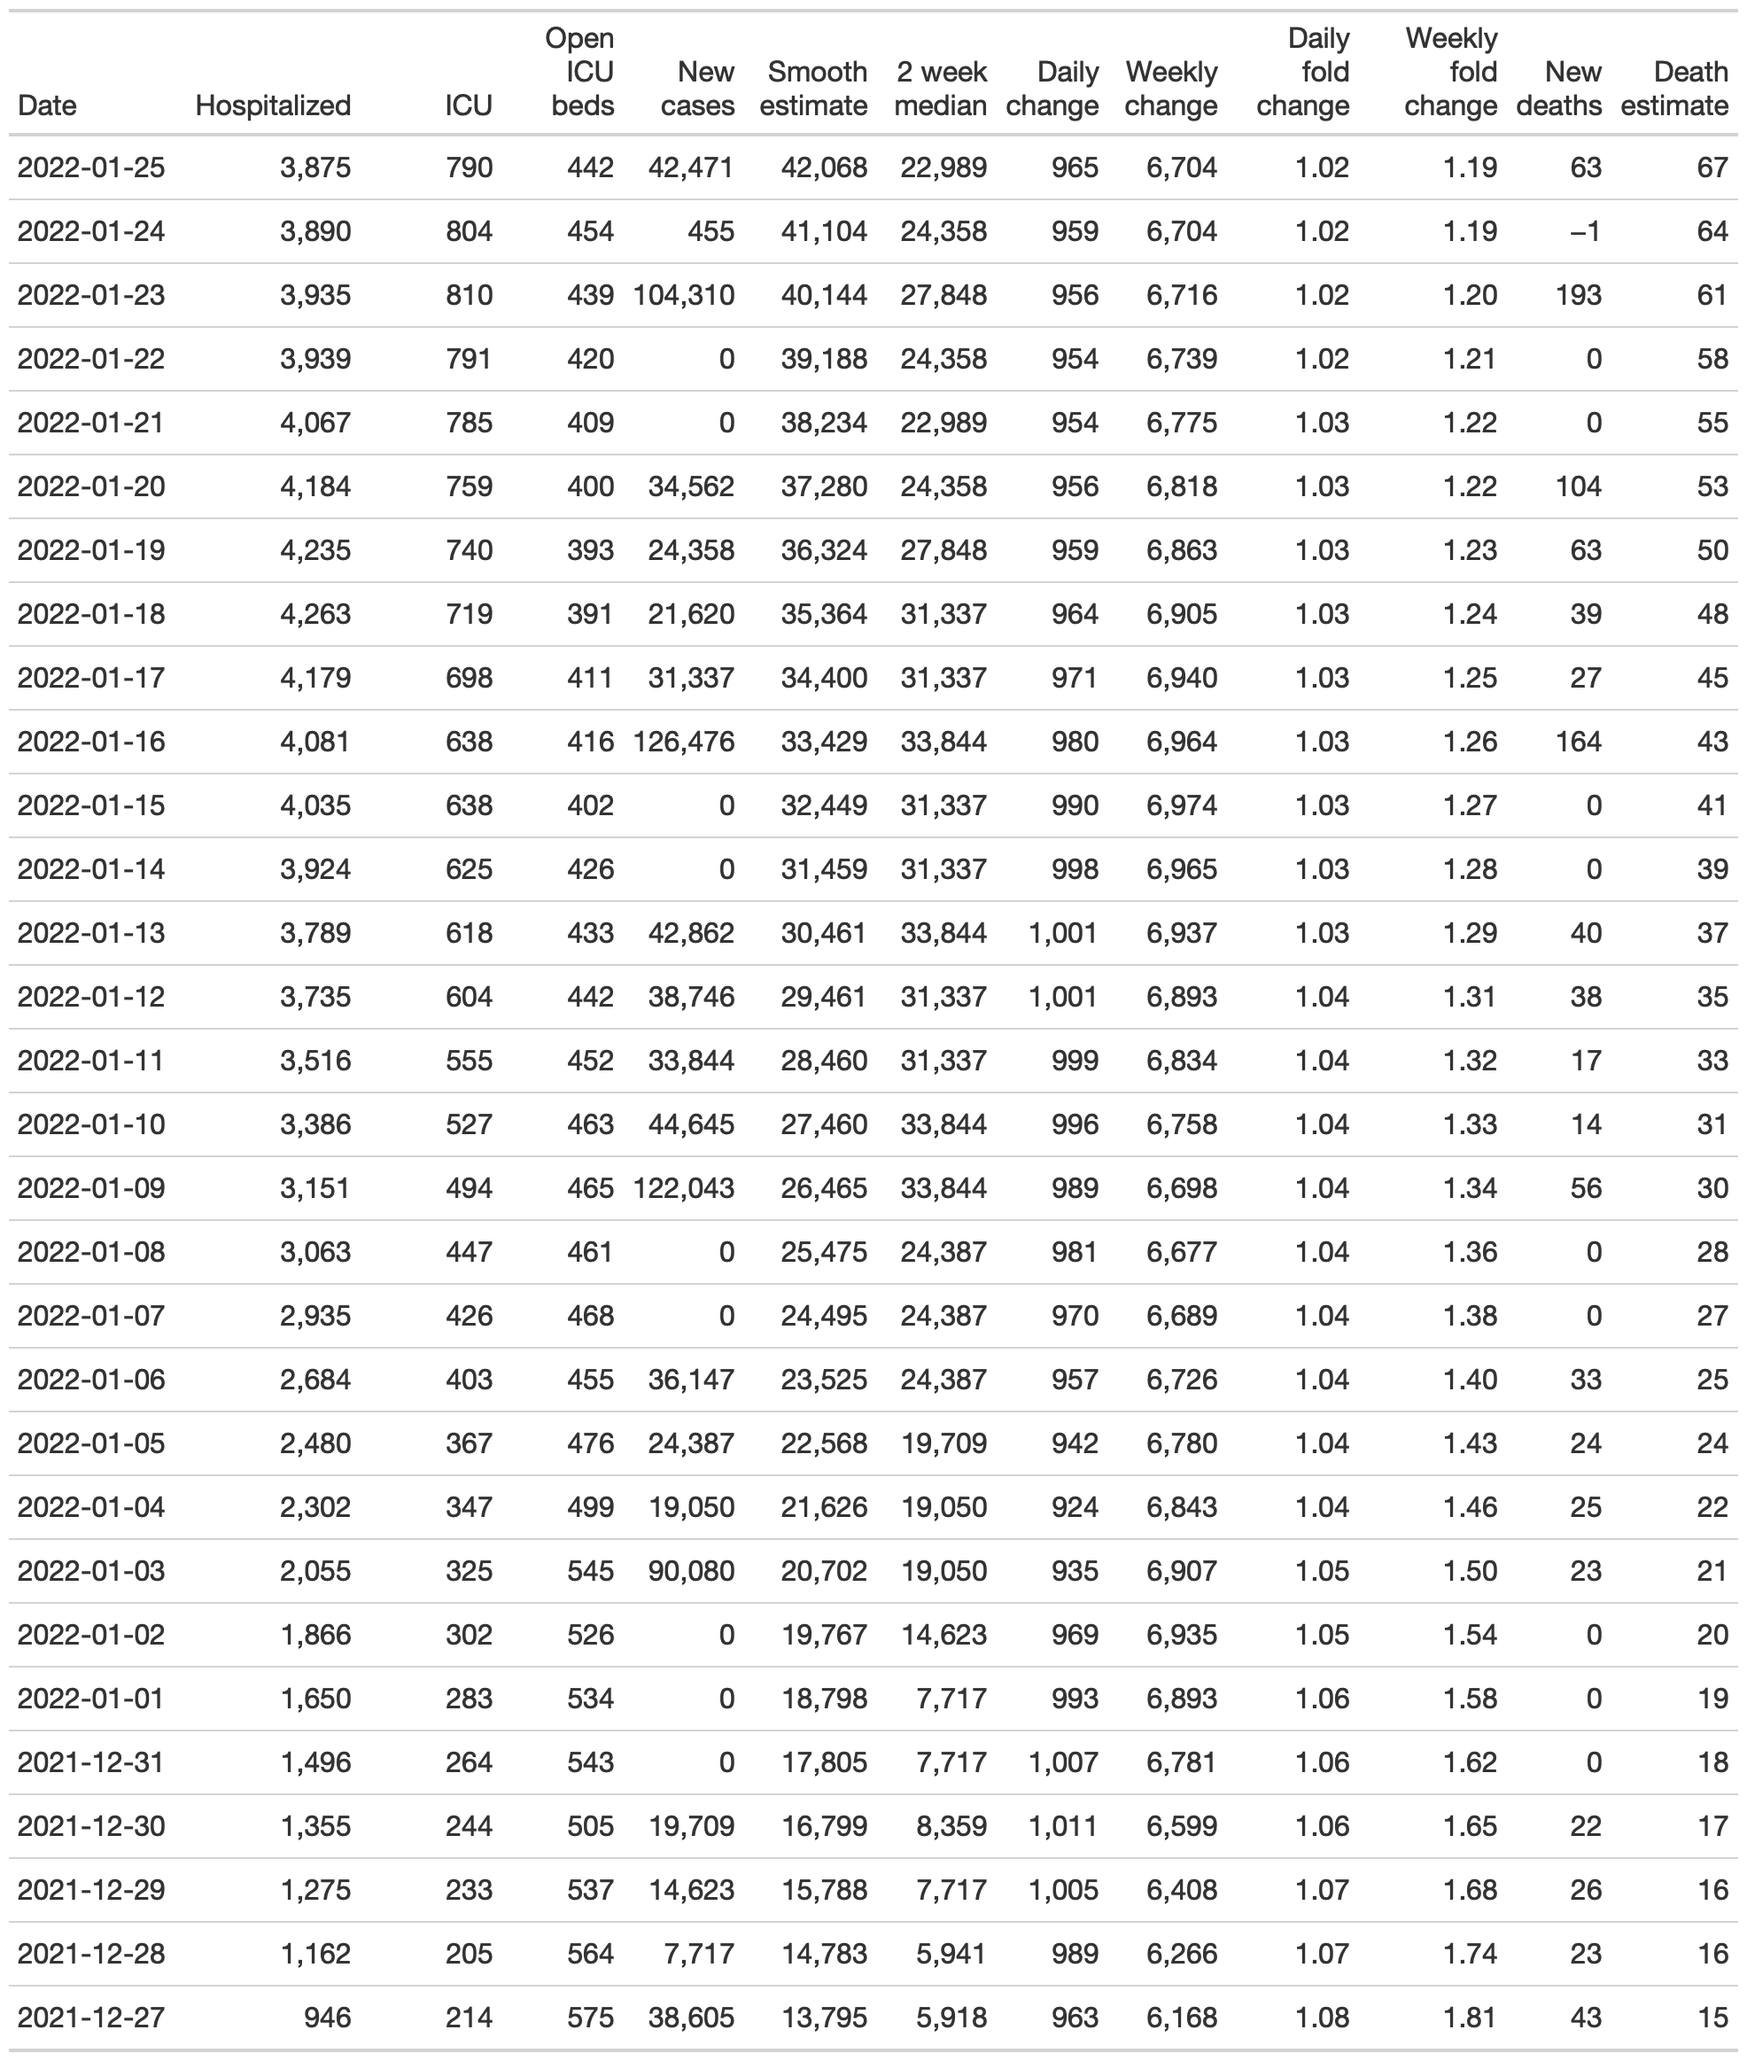
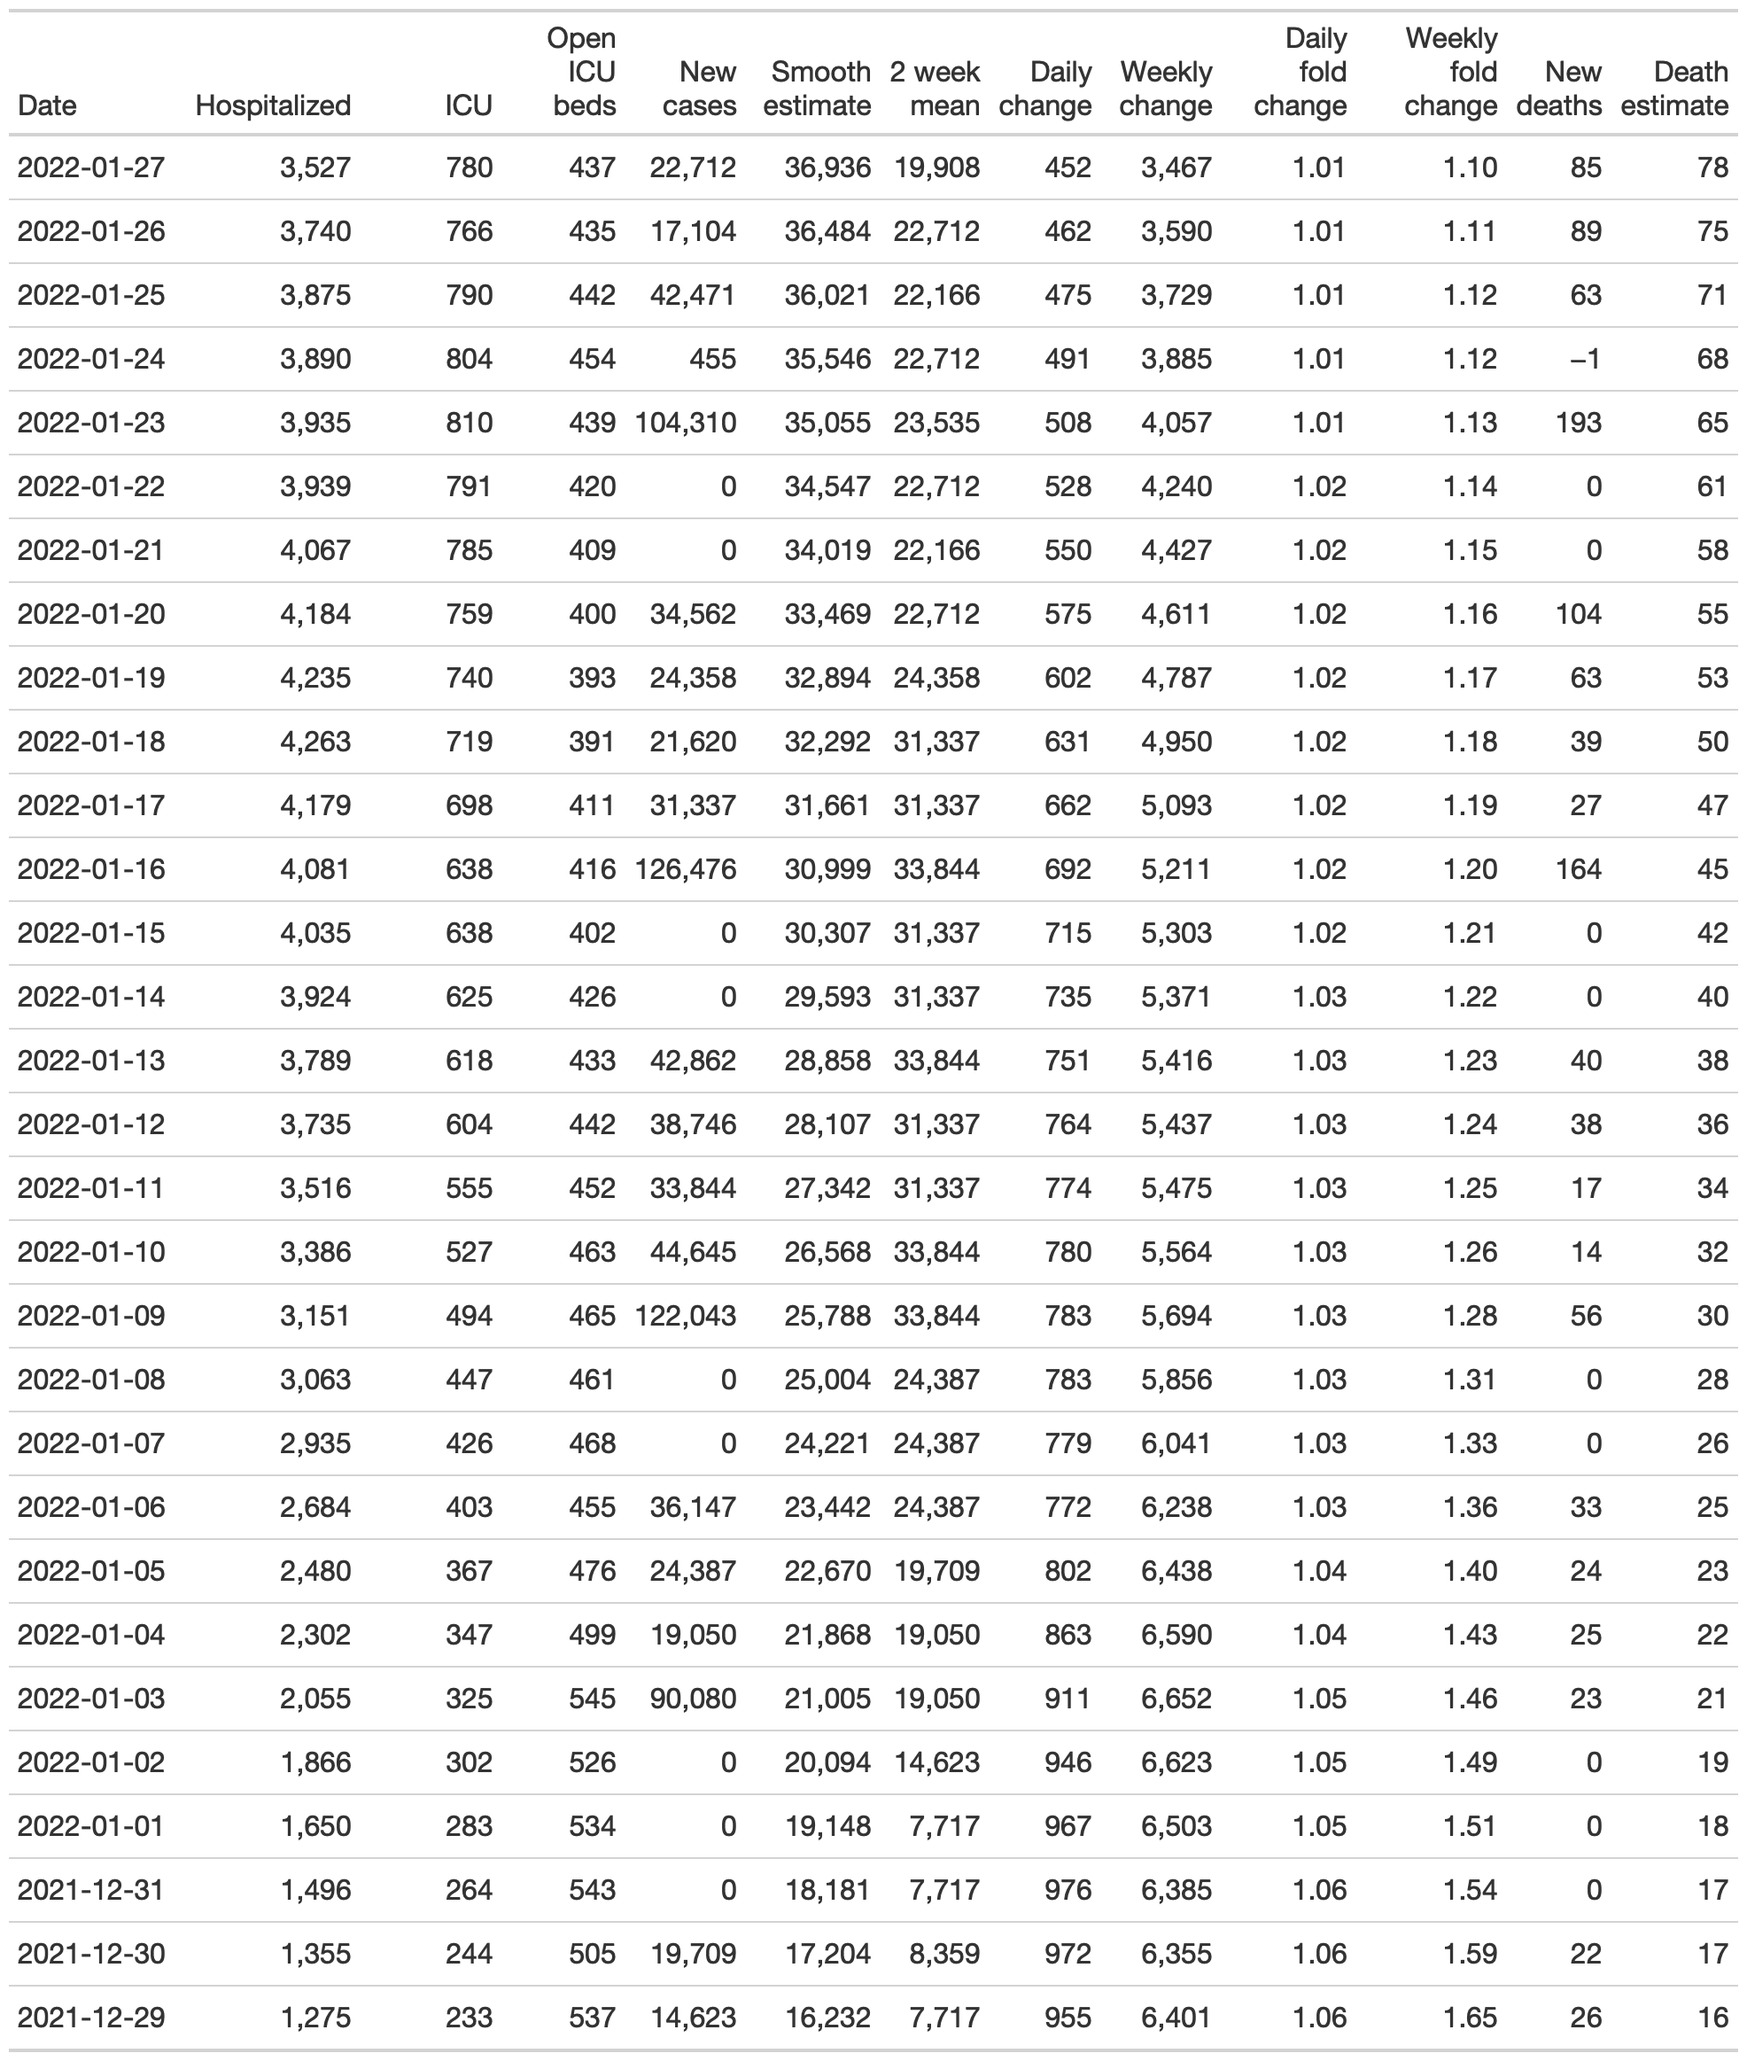
Using rolling mean instead of median
Because numbers are being pooled across weekends

diff --git a/content/_index.html b/content/_index.html
@@ -25,8 +25,8 @@ lag for the winter 2021 wave.</p>
 <p>With so many new cases in recent days, I was curious what fraction of LA
 county’s population has gotten covid during the omicron wave. Without
 considering duplicates, and assuming that December 2021 was the start of this
-wave, there have been 973,339 confirmed cases, which is roughly
-9.5% of the population.</p>
+wave, there have been 1,013,155 confirmed cases, which is roughly
+9.9% of the population.</p>
 <p>Saw some chatter on Twitter about the circular plot of cases published by the
 NYT
 <a href="https://www.nytimes.com/2022/01/06/opinion/omicron-covid-us.html">here behind a paywall</a>.
